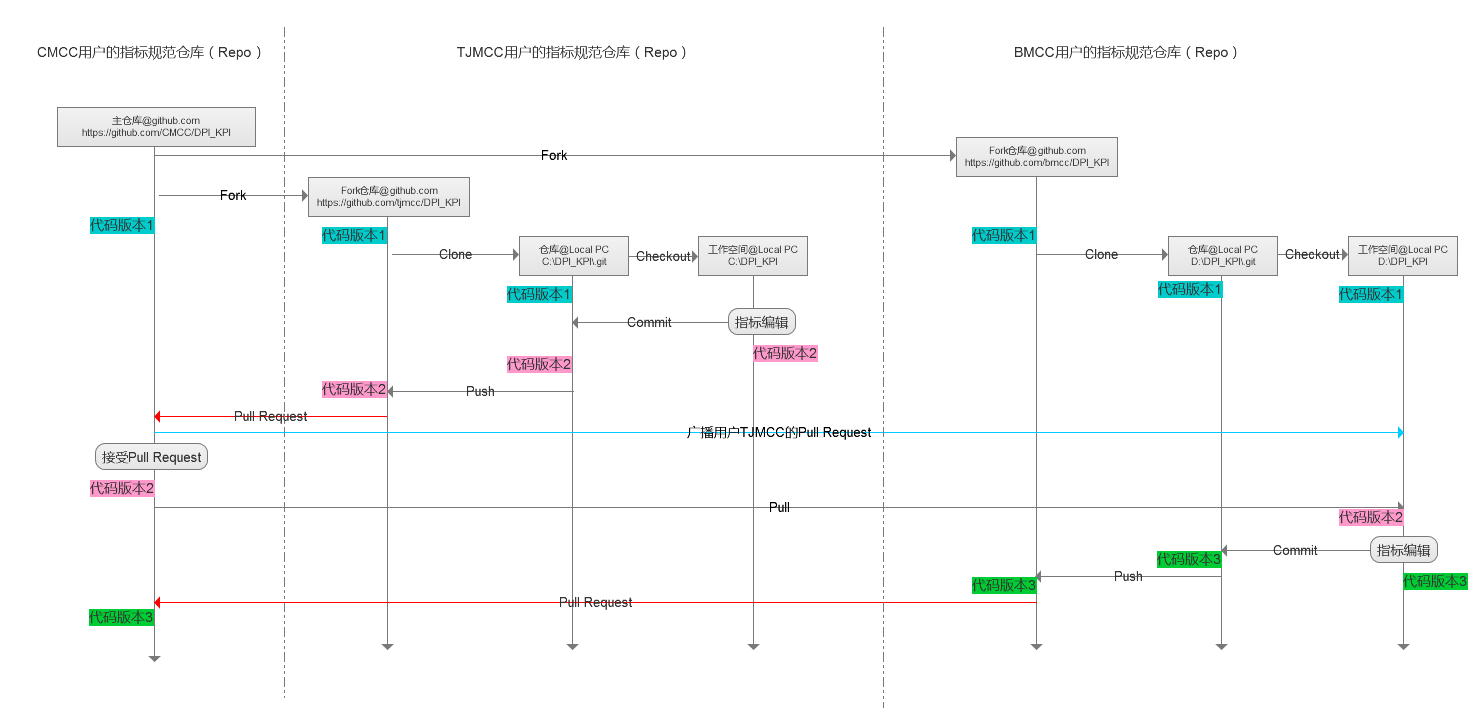
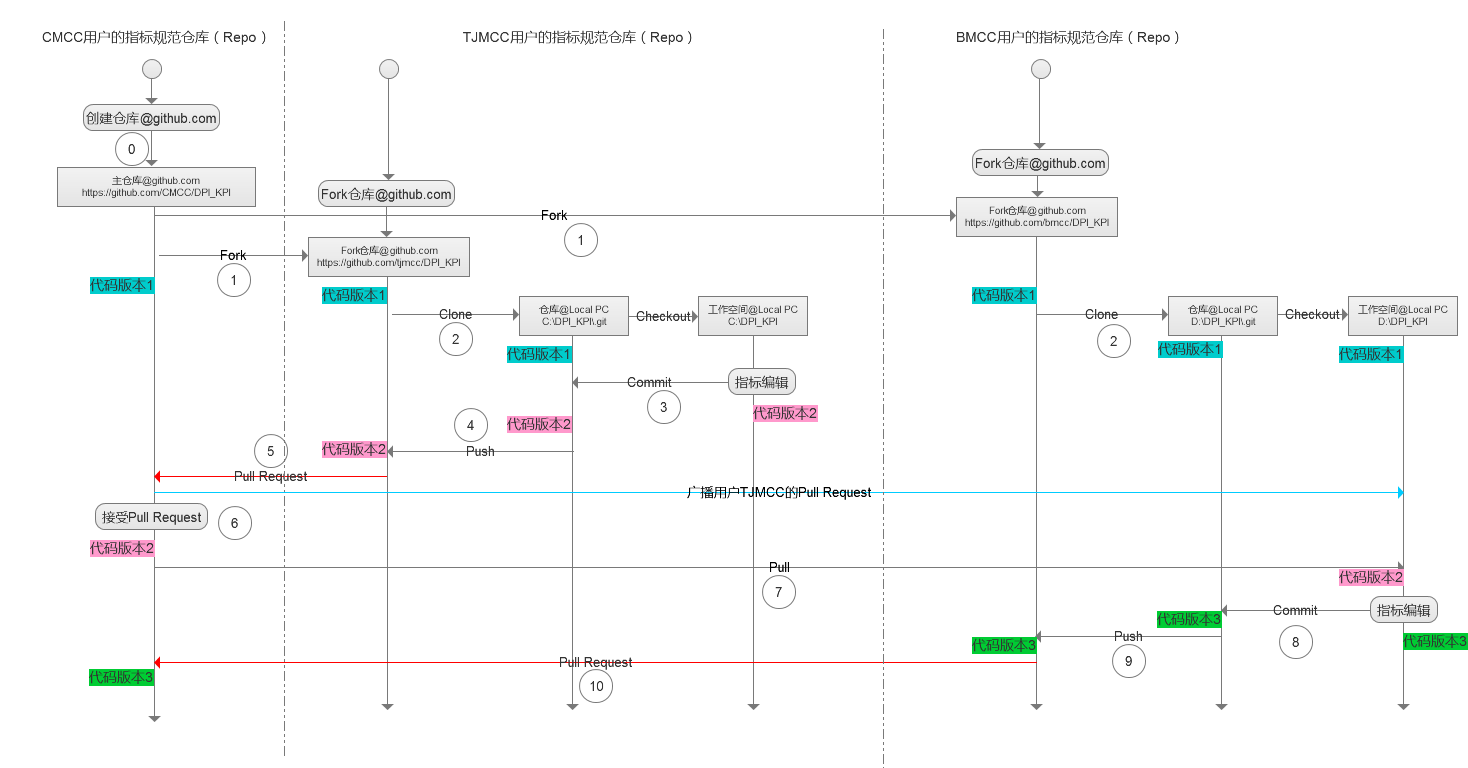
补充基本指标维护流程

diff --git a/docs/base_workflow.md b/docs/base_workflow.md
@@ -27,4 +27,20 @@
     
 ## 基本工作流
 
+**在本用例中假定有3位用户** 
+
+* 用户CMCC
+
+    集团指标工作组负责人，指标库创建及维护者
+
+* 用户TJMCC
+
+    A省内指标工作组成员，参与指标修订
+    
+* 用户BMCC
+
+    B省内指标工作组成员，参与指标修订
+    
+**基本工作流程** 
+ 
 ![基本工作流程](../imgs/image_workflow_pull_merge.png)
